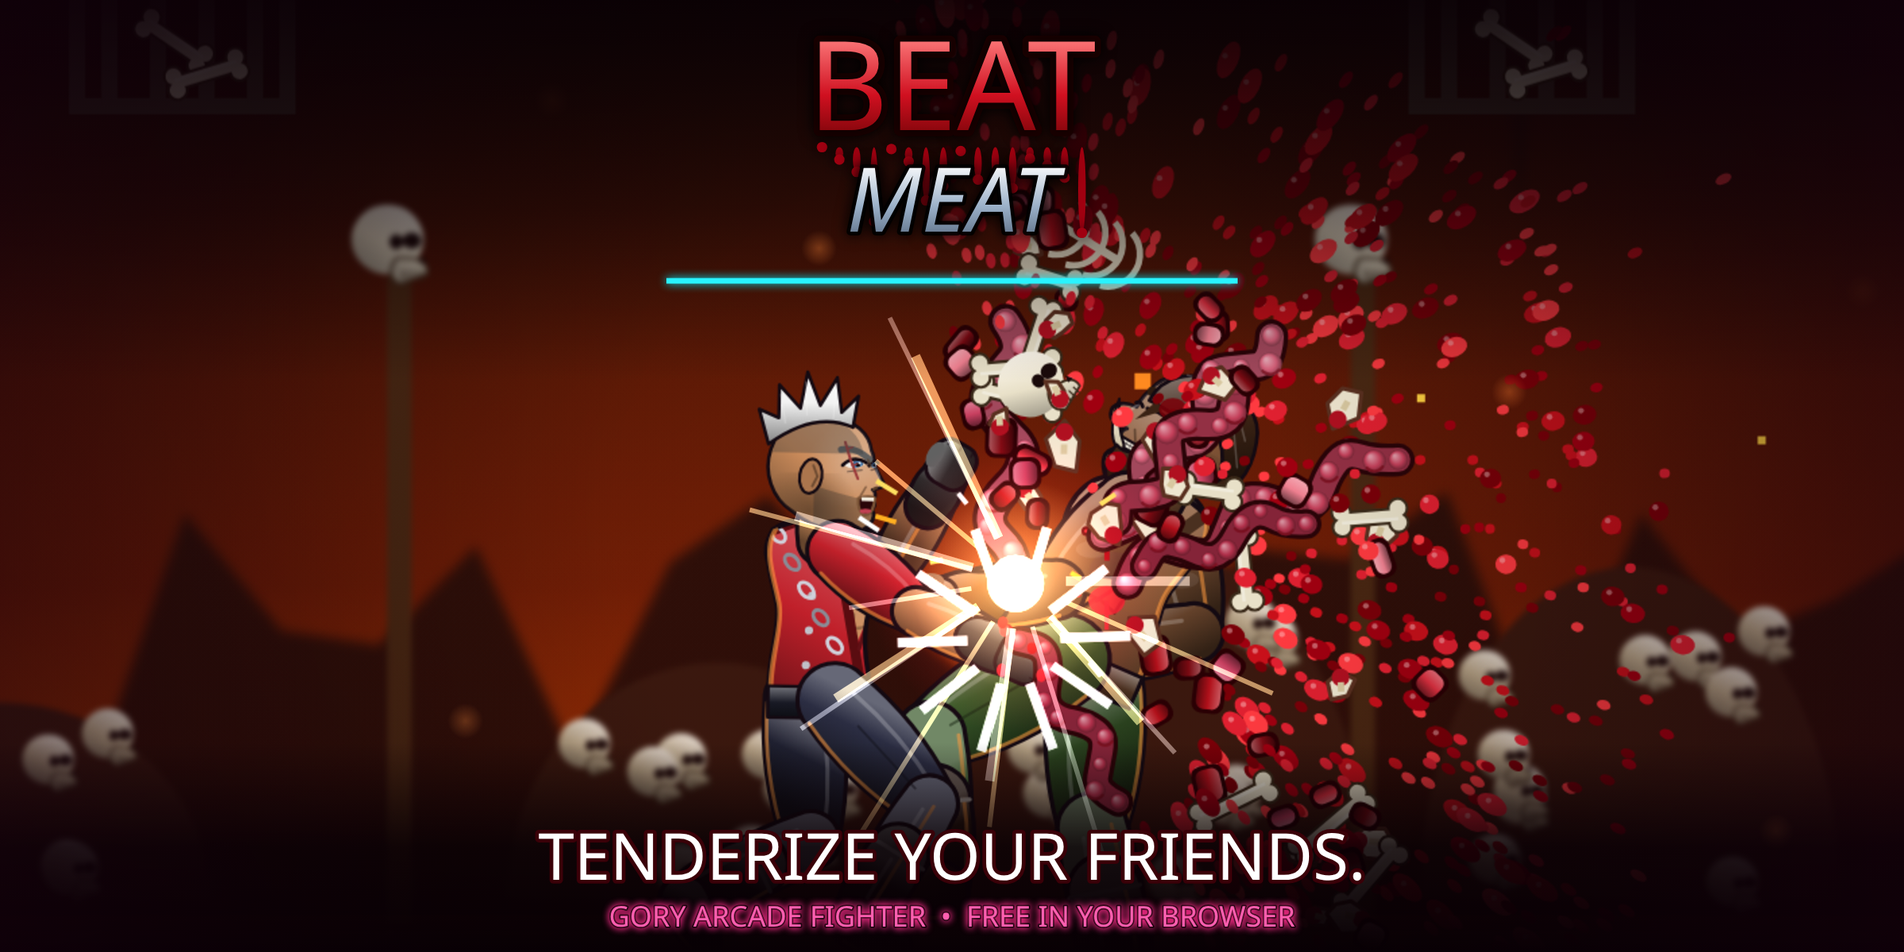
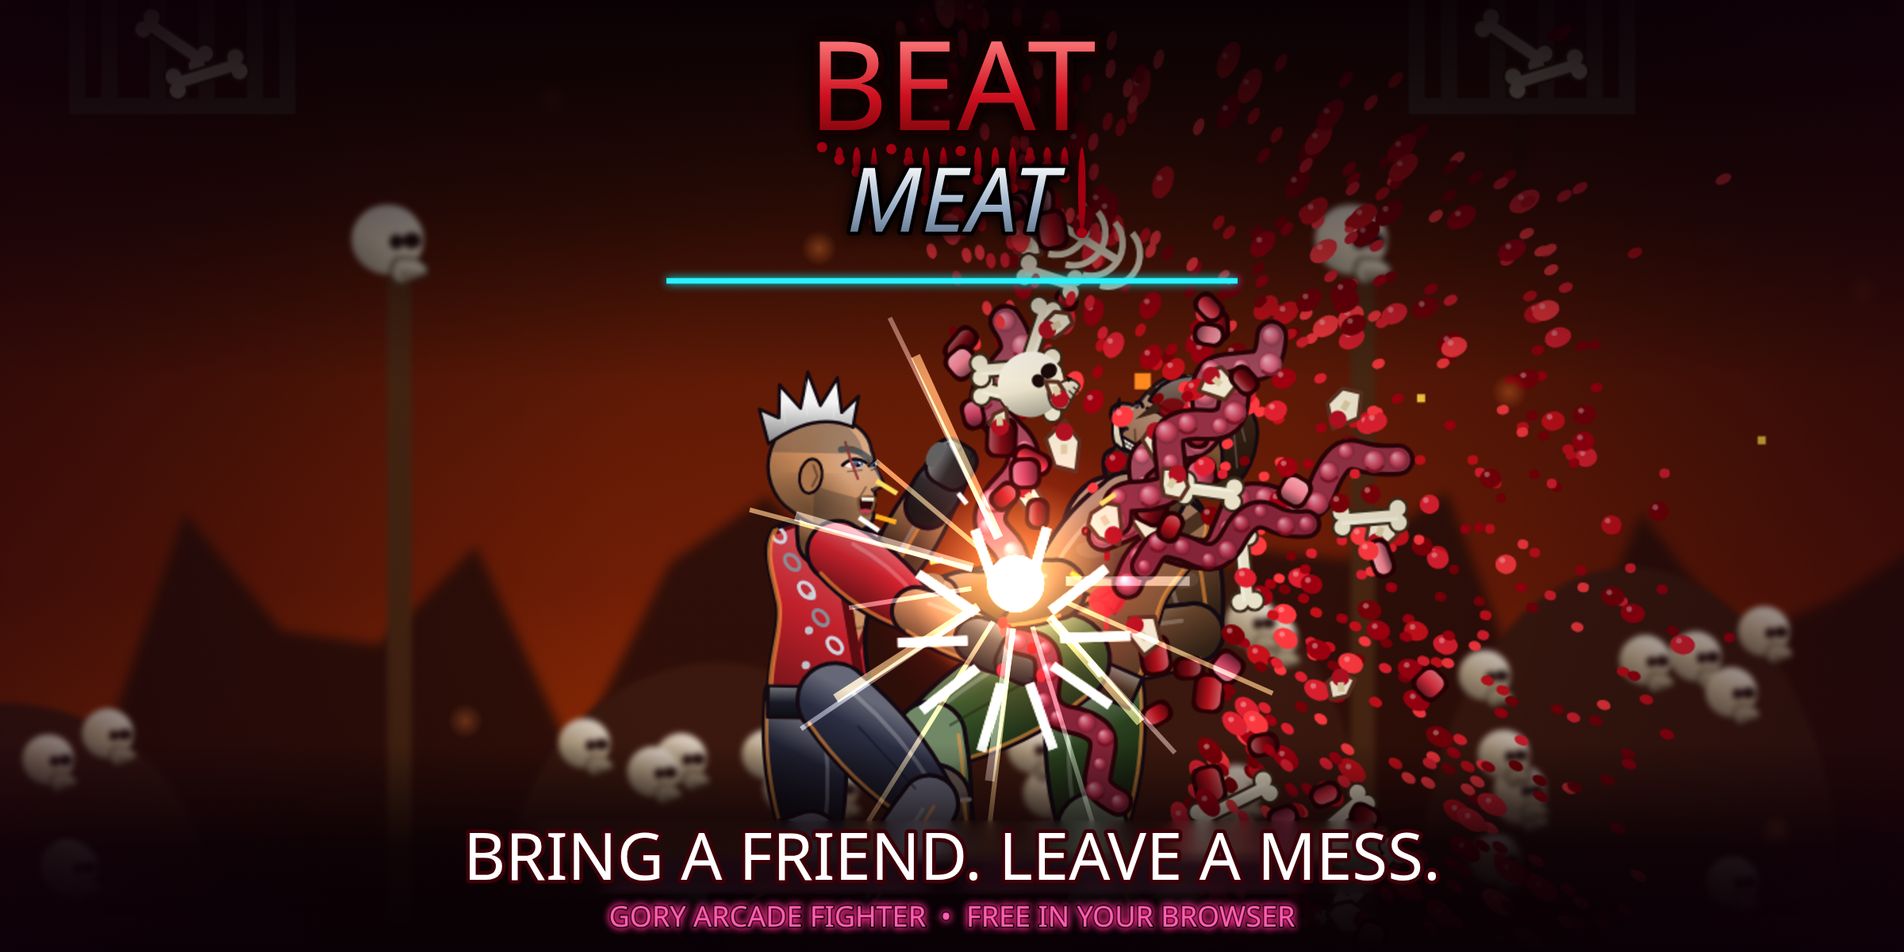
Add files via upload

Changed region(s): [[0.2188, 0.8633, 0.75, 0.925]]

diff --git a/sw.js b/sw.js
@@ -1,4 +1,4 @@
-const C='beat-meat-v14.0.2';const FILES=["./","assets/voice/beat_meat.mp3","assets/voice/beat_meat.ogg","assets/voice/extra_life.mp3","assets/voice/extra_life.ogg","assets/voice/here_comes_a_new_challenger.mp3","assets/voice/here_comes_a_new_challenger.ogg","assets/voice/new_challenger.mp3","assets/voice/new_challenger.ogg","assets/voice/time_up.mp3","assets/voice/time_up.ogg","js/v13-parity.js","js/v13-net-core.js","js/peerjs.min.js","js/v13-net.js","js/v14.js","js/v14-ui.js","js/v14-remap.js","js/v14-opts.js","js/v14-net2.js","js/v14-haz.js","index.html","js/v9-gore.js","js/v9-killcam.js","js/v11-pose.js","js/v10-pose.js","js/v10-fix.js","js/v11-bossfin.js","js/v12-vs.js","js/v12-brawl.js","js/v12-cam.js","js/v12-cpu.js","js/v12-train.js","js/v12-tut.js","js/v12-fx.js","js/v12-1-fx.js","js/v12-2-fix.js","js/v12-2-fatal.js","js/v12-2-ann.js","js/v12-2-story.js","js/v12-2-motions.js","js/v12-2-classic.js","js/v9-train.js","js/v9-moves.js","js/v9-input.js","manifest.webmanifest","assets/voice/annihilation.mp3","assets/voice/annihilation.ogg","assets/voice/backup.mp3","assets/voice/backup.ogg","assets/voice/boss_down.mp3","assets/voice/boss_down.ogg","assets/voice/brick.mp3","assets/voice/brick.ogg","assets/voice/clear.mp3","assets/voice/clear.ogg","assets/voice/combo_breaker.mp3","assets/voice/combo_breaker.ogg","assets/voice/continue.mp3","assets/voice/continue.ogg","assets/voice/crispy.mp3","assets/voice/crispy.ogg","assets/voice/dane.mp3","assets/voice/dane.ogg","assets/voice/destroyed.mp3","assets/voice/destroyed.ogg","assets/voice/dismemberment.mp3","assets/voice/dismemberment.ogg","assets/voice/down.mp3","assets/voice/down.ogg","assets/voice/dr_hex.mp3","assets/voice/dr_hex.ogg","assets/voice/dr_hex_wins.mp3","assets/voice/dr_hex_wins.ogg","assets/voice/draw.mp3","assets/voice/draw.ogg","assets/voice/excellent.mp3","assets/voice/excellent.ogg","assets/voice/execution.mp3","assets/voice/execution.ogg","assets/voice/fatality.mp3","assets/voice/fatality.ogg","assets/voice/fight.mp3","assets/voice/fight.ogg","assets/voice/final_round.mp3","assets/voice/final_round.ogg","assets/voice/finish_them.mp3","assets/voice/finish_them.ogg","assets/voice/flawless_victory.mp3","assets/voice/flawless_victory.ogg","assets/voice/game_over.mp3","assets/voice/game_over.ogg","assets/voice/glitch.mp3","assets/voice/glitch.ogg","assets/voice/glitch_wins.mp3","assets/voice/glitch_wins.ogg","assets/voice/goliath_nine.mp3","assets/voice/goliath_nine.ogg","assets/voice/goliath_nine_wins.mp3","assets/voice/goliath_nine_wins.ogg","assets/voice/good.mp3","assets/voice/good.ogg","assets/voice/jax.mp3","assets/voice/jax.ogg","assets/voice/k_o.mp3","assets/voice/k_o.ogg","assets/voice/kenji.mp3","assets/voice/kenji.ogg","assets/voice/kira_neon.mp3","assets/voice/kira_neon.ogg","assets/voice/kira_neon_wins.mp3","assets/voice/kira_neon_wins.ogg","assets/voice/level_clear.mp3","assets/voice/level_clear.ogg","assets/voice/magma_mae.mp3","assets/voice/magma_mae.ogg","assets/voice/magma_mae_wins.mp3","assets/voice/magma_mae_wins.ogg","assets/voice/mr_graves.mp3","assets/voice/mr_graves.ogg","assets/voice/mr_graves_wins.mp3","assets/voice/mr_graves_wins.ogg","assets/voice/okafor.mp3","assets/voice/okafor.ogg","assets/voice/okafor_wins.mp3","assets/voice/okafor_wins.ogg","assets/voice/perfect.mp3","assets/voice/perfect.ogg","assets/voice/player_two.mp3","assets/voice/player_two.ogg","assets/voice/ray.mp3","assets/voice/ray.ogg","assets/voice/razor_vance.mp3","assets/voice/razor_vance.ogg","assets/voice/razor_vance_wins.mp3","assets/voice/razor_vance_wins.ogg","assets/voice/rena.mp3","assets/voice/rena.ogg","assets/voice/replay.mp3","assets/voice/replay.ogg","assets/voice/round_five.mp3","assets/voice/round_five.ogg","assets/voice/round_four.mp3","assets/voice/round_four.ogg","assets/voice/round_one.mp3","assets/voice/round_one.ogg","assets/voice/round_three.mp3","assets/voice/round_three.ogg","assets/voice/round_two.mp3","assets/voice/round_two.ogg","assets/voice/sol_reyes.mp3","assets/voice/sol_reyes.ogg","assets/voice/sol_reyes_wins.mp3","assets/voice/sol_reyes_wins.ogg","assets/voice/stage_clear.mp3","assets/voice/stage_clear.ogg","assets/voice/stage_kill.mp3","assets/voice/stage_kill.ogg","assets/voice/super.mp3","assets/voice/super.ogg","assets/voice/the_warden.mp3","assets/voice/the_warden.ogg","assets/voice/the_warden_wins.mp3","assets/voice/the_warden_wins.ogg","assets/voice/time.mp3","assets/voice/time.ogg","assets/voice/trial_clear.mp3","assets/voice/trial_clear.ogg","assets/voice/tusk.mp3","assets/voice/tusk.ogg","assets/voice/tusk_wins.mp3","assets/voice/tusk_wins.ogg","assets/voice/warning.mp3","assets/voice/warning.ogg","css/style.css","assets/icon.svg","favicon.ico","assets/favicon-32.png","assets/apple-touch-icon.png","assets/maskable.svg","assets/maskable-192.png","assets/maskable-512.png","assets/og-image.png","assets/og-twitter.png","assets/icon-48.png","assets/icon-72.png","assets/icon-96.png","assets/icon-128.png","assets/icon-144.png","assets/icon-152.png","assets/icon-192.png","assets/icon-256.png","assets/icon-384.png","assets/icon-512.png","js/v8-announce.js","js/v8-replay.js","js/v8-touch.js","js/v8-portrait.js","js/v8-chars.js","js/v8-story.js","js/art.js","js/campaign.js","js/core.js","js/data.js","js/extras.js","js/feel.js","js/fight.js","js/input.js","js/main.js","js/moves.js","js/stages.js","js/story.js","js/v5.js","js/v6.js","js/v7-control.js","js/v7-moves.js","js/v7-story.js","js/v7-ui.js"];
+const C='beat-meat-v14.0.3';const FILES=["./","assets/voice/beat_meat.mp3","assets/voice/beat_meat.ogg","assets/voice/extra_life.mp3","assets/voice/extra_life.ogg","assets/voice/here_comes_a_new_challenger.mp3","assets/voice/here_comes_a_new_challenger.ogg","assets/voice/new_challenger.mp3","assets/voice/new_challenger.ogg","assets/voice/time_up.mp3","assets/voice/time_up.ogg","js/v13-parity.js","js/v13-net-core.js","js/peerjs.min.js","js/v13-net.js","js/v14.js","js/v14-ui.js","js/v14-remap.js","js/v14-opts.js","js/v14-net2.js","js/v14-haz.js","index.html","js/v9-gore.js","js/v9-killcam.js","js/v11-pose.js","js/v10-pose.js","js/v10-fix.js","js/v11-bossfin.js","js/v12-vs.js","js/v12-brawl.js","js/v12-cam.js","js/v12-cpu.js","js/v12-train.js","js/v12-tut.js","js/v12-fx.js","js/v12-1-fx.js","js/v12-2-fix.js","js/v12-2-fatal.js","js/v12-2-ann.js","js/v12-2-story.js","js/v12-2-motions.js","js/v12-2-classic.js","js/v9-train.js","js/v9-moves.js","js/v9-input.js","manifest.webmanifest","assets/voice/annihilation.mp3","assets/voice/annihilation.ogg","assets/voice/backup.mp3","assets/voice/backup.ogg","assets/voice/boss_down.mp3","assets/voice/boss_down.ogg","assets/voice/brick.mp3","assets/voice/brick.ogg","assets/voice/clear.mp3","assets/voice/clear.ogg","assets/voice/combo_breaker.mp3","assets/voice/combo_breaker.ogg","assets/voice/continue.mp3","assets/voice/continue.ogg","assets/voice/crispy.mp3","assets/voice/crispy.ogg","assets/voice/dane.mp3","assets/voice/dane.ogg","assets/voice/destroyed.mp3","assets/voice/destroyed.ogg","assets/voice/dismemberment.mp3","assets/voice/dismemberment.ogg","assets/voice/down.mp3","assets/voice/down.ogg","assets/voice/dr_hex.mp3","assets/voice/dr_hex.ogg","assets/voice/dr_hex_wins.mp3","assets/voice/dr_hex_wins.ogg","assets/voice/draw.mp3","assets/voice/draw.ogg","assets/voice/excellent.mp3","assets/voice/excellent.ogg","assets/voice/execution.mp3","assets/voice/execution.ogg","assets/voice/fatality.mp3","assets/voice/fatality.ogg","assets/voice/fight.mp3","assets/voice/fight.ogg","assets/voice/final_round.mp3","assets/voice/final_round.ogg","assets/voice/finish_them.mp3","assets/voice/finish_them.ogg","assets/voice/flawless_victory.mp3","assets/voice/flawless_victory.ogg","assets/voice/game_over.mp3","assets/voice/game_over.ogg","assets/voice/glitch.mp3","assets/voice/glitch.ogg","assets/voice/glitch_wins.mp3","assets/voice/glitch_wins.ogg","assets/voice/goliath_nine.mp3","assets/voice/goliath_nine.ogg","assets/voice/goliath_nine_wins.mp3","assets/voice/goliath_nine_wins.ogg","assets/voice/good.mp3","assets/voice/good.ogg","assets/voice/jax.mp3","assets/voice/jax.ogg","assets/voice/k_o.mp3","assets/voice/k_o.ogg","assets/voice/kenji.mp3","assets/voice/kenji.ogg","assets/voice/kira_neon.mp3","assets/voice/kira_neon.ogg","assets/voice/kira_neon_wins.mp3","assets/voice/kira_neon_wins.ogg","assets/voice/level_clear.mp3","assets/voice/level_clear.ogg","assets/voice/magma_mae.mp3","assets/voice/magma_mae.ogg","assets/voice/magma_mae_wins.mp3","assets/voice/magma_mae_wins.ogg","assets/voice/mr_graves.mp3","assets/voice/mr_graves.ogg","assets/voice/mr_graves_wins.mp3","assets/voice/mr_graves_wins.ogg","assets/voice/okafor.mp3","assets/voice/okafor.ogg","assets/voice/okafor_wins.mp3","assets/voice/okafor_wins.ogg","assets/voice/perfect.mp3","assets/voice/perfect.ogg","assets/voice/player_two.mp3","assets/voice/player_two.ogg","assets/voice/ray.mp3","assets/voice/ray.ogg","assets/voice/razor_vance.mp3","assets/voice/razor_vance.ogg","assets/voice/razor_vance_wins.mp3","assets/voice/razor_vance_wins.ogg","assets/voice/rena.mp3","assets/voice/rena.ogg","assets/voice/replay.mp3","assets/voice/replay.ogg","assets/voice/round_five.mp3","assets/voice/round_five.ogg","assets/voice/round_four.mp3","assets/voice/round_four.ogg","assets/voice/round_one.mp3","assets/voice/round_one.ogg","assets/voice/round_three.mp3","assets/voice/round_three.ogg","assets/voice/round_two.mp3","assets/voice/round_two.ogg","assets/voice/sol_reyes.mp3","assets/voice/sol_reyes.ogg","assets/voice/sol_reyes_wins.mp3","assets/voice/sol_reyes_wins.ogg","assets/voice/stage_clear.mp3","assets/voice/stage_clear.ogg","assets/voice/stage_kill.mp3","assets/voice/stage_kill.ogg","assets/voice/super.mp3","assets/voice/super.ogg","assets/voice/the_warden.mp3","assets/voice/the_warden.ogg","assets/voice/the_warden_wins.mp3","assets/voice/the_warden_wins.ogg","assets/voice/time.mp3","assets/voice/time.ogg","assets/voice/trial_clear.mp3","assets/voice/trial_clear.ogg","assets/voice/tusk.mp3","assets/voice/tusk.ogg","assets/voice/tusk_wins.mp3","assets/voice/tusk_wins.ogg","assets/voice/warning.mp3","assets/voice/warning.ogg","css/style.css","assets/icon.svg","favicon.ico","assets/favicon-32.png","assets/apple-touch-icon.png","assets/maskable.svg","assets/maskable-192.png","assets/maskable-512.png","assets/og-image.png","assets/og-twitter.png","assets/icon-48.png","assets/icon-72.png","assets/icon-96.png","assets/icon-128.png","assets/icon-144.png","assets/icon-152.png","assets/icon-192.png","assets/icon-256.png","assets/icon-384.png","assets/icon-512.png","js/v8-announce.js","js/v8-replay.js","js/v8-touch.js","js/v8-portrait.js","js/v8-chars.js","js/v8-story.js","js/art.js","js/campaign.js","js/core.js","js/data.js","js/extras.js","js/feel.js","js/fight.js","js/input.js","js/main.js","js/moves.js","js/stages.js","js/story.js","js/v5.js","js/v6.js","js/v7-control.js","js/v7-moves.js","js/v7-story.js","js/v7-ui.js"];
 self.addEventListener('install',e=>{e.waitUntil(caches.open(C).then(c=>c.addAll(FILES)).then(()=>self.skipWaiting()))});
 self.addEventListener('activate',e=>{e.waitUntil(caches.keys().then(k=>Promise.all(k.filter(x=>x!==C).map(x=>caches.delete(x)))).then(()=>self.clients.claim()))});
 self.addEventListener('fetch',e=>{if(e.request.method!=='GET')return;e.respondWith(caches.match(e.request).then(r=>r||fetch(e.request)))});

diff --git a/js/extras.js b/js/extras.js
@@ -51,7 +51,7 @@ SCN.title={enter(s){Music.play('title');IDLE=0;s.ember=[]},update(s){const any=B
   X.save();X.translate(W*.17-(1-sl)*80,H+6);X.scale(1.8,1.8);drawFighterV(X,a,pa,{expr:'angry',rim:'#ff4060',t});X.restore();X.save();X.translate(W*.83+(1-sl)*80,H+6);X.scale(-1.8,1.8);drawFighterV(X,b,pa,{expr:'grin',rim:'#40c0ff',t});X.restore();
   X.fillStyle=lgr(X,0,H*.5,0,H,['rgba(0,0,0,0)','rgba(0,0,0,.75)']);X.fillRect(0,H*.5,W,H*.5);
   const k=Math.min(1,t/40);txt('MRCRAZY PRESENTS',W/2,Math.max(12,SAFE.t+10),{sz:6,c:'#f99',lw:1.2});X.save();X.translate(W/2,56);X.scale(.6+.4*k+Math.sin(t*.05)*.015,.6+.4*k);X.translate(-W/2,-56);bloodTitle(56,40,t);X.restore();
-  if(t>30){X.globalAlpha=Math.min(1,(t-30)/20);txt('TENDERIZE YOUR FRIENDS',W/2,112,{sz:9,big:1,c:'#ffd23a',lw:1.6,it:1});X.globalAlpha=1}
+  if(t>30){X.globalAlpha=Math.min(1,(t-30)/20);txt('BRING A FRIEND. LEAVE A MESS.',W/2,112,{sz:9,big:1,c:'#ffd23a',lw:1.6,it:1});X.globalAlpha=1}
   if(t%60<42)txt(TCH.isTouch?'TAP TO START':'PRESS START  ['+glyph(0,'st')+']',W/2,150,{sz:11,big:1,c:'#fff',lw:2});
   txt(GAME_VER+'  \u00a9 2026 MRCRAZY  \u2022  ALL-ORIGINAL CHARACTERS',W/2,H-SAFE.b-6,{sz:4.5,c:'#888',lw:1,nosc:1});hitR(0,0,W,H,()=>{SFX.sel();go('menu')})}};
 function startAttract(){IDLE=0;if(R()<.5){const a=pick(REGULAR),b=pick(REGULAR.filter(c=>c!==a));newFight(a,b,{mode:'cpu',stage:ri(0,5),cpu1:1,cpu2:1,dif1:3,dif2:3,onEnd:()=>go('title')});F.attract=1;go('fight')}
@@ -186,7 +186,7 @@ const _fd2=SCN.fight.draw;SCN.fight.draw=function(s){_fd2(s);if(!F||!F.tut)retur
  txt('TUTORIAL '+(TUTS.i+1)+'/'+TUT.length+': '+st[0],W/2,48,{sz:7,big:1,c:'#ffd23a',lw:1.2});let d=st[1];if(st[0]==='TARGET COMBO'){const tc=F.p[0].ch.tc&&F.p[0].ch.tc[0];d+=tc?tc.map(b=>BTNN[b]).join(' > '):''}txt(d,W/2,61,{sz:5.4,c:'#fff',lw:1})};
 // ---------- credits ----------
 const _cr=SCN.credits.draw;SCN.credits.draw=function(s){if(s.unl)return _cr(s);bgPattern(s.t,'#100010','#200020');backBtn(()=>{SFX.back();if(s.back){SC=s.back;HITS=[]}else go('menu')});
- const L=['BEAT MEAT','TENDERIZE YOUR FRIENDS  '+GAME_VER,'','CREATED BY MRCRAZY','Game idea, design & direction','','A MRCRAZY PRODUCTION','','FIGHTERS','Razor \u2022 Kira \u2022 Okafor \u2022 Mr. Graves \u2022 Mae \u2022 Hex','Tusk \u2022 Sol Reyes \u2022 Glitch \u2022 Goliath-9 \u2022 The Warden','','STORY HEROES','Jax Rourke \u2022 Rena Vale \u2022 Brick Brannigan \u2022 Kenji Arata','Ray Calder \u2022 Dane Calder','','STORY MODE','TAKE BACK THE CITY','Neon Row \u2022 The Underline \u2022 Pier 13 \u2022 Smeltworks','Gilded Ace Casino \u2022 Precinct Zero \u2022 Skyline Run \u2022 Malgrave Penthouse','','BLOOD VENDETTA','Burning Garage \u2022 Helipad 9 \u2022 Grinder Works','Night Freight \u2022 Kane Mansion \u2022 The Iron Chapel','','MODES','Arcade \u2022 Versus \u2022 Survival \u2022 Story \u2022 Practice Yard','Training & Combo Trials \u2022 CPU Battle','','ENGINE','HTML5 Canvas \u2022 Web Audio \u2022 Gamepad API \u2022 Vibration API','','All characters, names and moves are original.','No real blood was spilled.','','THANKS FOR PLAYING','\u2014 MrCrazy'];
+ const L=['BEAT MEAT','BRING A FRIEND. LEAVE A MESS.  '+GAME_VER,'','CREATED BY MRCRAZY','Game idea, design & direction','','A MRCRAZY PRODUCTION','','FIGHTERS','Razor \u2022 Kira \u2022 Okafor \u2022 Mr. Graves \u2022 Mae \u2022 Hex','Tusk \u2022 Sol Reyes \u2022 Glitch \u2022 Goliath-9 \u2022 The Warden','','STORY HEROES','Jax Rourke \u2022 Rena Vale \u2022 Brick Brannigan \u2022 Kenji Arata','Ray Calder \u2022 Dane Calder','','STORY MODE','TAKE BACK THE CITY','Neon Row \u2022 The Underline \u2022 Pier 13 \u2022 Smeltworks','Gilded Ace Casino \u2022 Precinct Zero \u2022 Skyline Run \u2022 Malgrave Penthouse','','BLOOD VENDETTA','Burning Garage \u2022 Helipad 9 \u2022 Grinder Works','Night Freight \u2022 Kane Mansion \u2022 The Iron Chapel','','MODES','Arcade \u2022 Versus \u2022 Survival \u2022 Story \u2022 Practice Yard','Training & Combo Trials \u2022 CPU Battle','','ENGINE','HTML5 Canvas \u2022 Web Audio \u2022 Gamepad API \u2022 Vibration API','','All characters, names and moves are original.','No real blood was spilled.','','THANKS FOR PLAYING','\u2014 MrCrazy'];
  const tot=L.length*12+H,y0=H-((s.t*.35)%tot);L.forEach((l,i)=>{const big=l===l.toUpperCase();txt(l,W/2,y0+i*12,{sz:i===0?14:i===3?11:big?7:6,big:big?1:0,c:i<2?'#ffd23a':i===3?'#fff':big?'#f88':'#ddd',lw:1})});};
 // ---------- how to play: glyph-aware ----------
 const _ctl=SCN.controls&&SCN.controls.draw;

diff --git a/js/main.js b/js/main.js
@@ -129,7 +129,7 @@ SCN.title={enter(){Music.play('title')},update(s){if(anyP('st')||anyP('lp')){SFX
  const a=ROSTER[Math.floor(s.t/150)%ROSTER.length],b=ROSTER[(Math.floor(s.t/150)+5)%ROSTER.length],pa=POSE[IDLEP(s.t)];
  X.save();X.translate(W*.18,H+6);X.scale(1.75,1.75);drawFighterV(X,a,pa,{expr:'angry',rim:'#ff4060',t:s.t});X.restore();X.save();X.translate(W*.82,H+6);X.scale(-1.75,1.75);drawFighterV(X,b,pa,{expr:'grin',rim:'#40c0ff',t:s.t});X.restore();
  X.fillStyle=lgr(X,0,H*.5,0,H,['rgba(0,0,0,0)','rgba(0,0,0,.7)']);X.fillRect(0,H*.5,W,H*.5);
- txt('MRCRAZY PRESENTS',W/2,Math.max(12,SAFE.t+10),{sz:6,c:'#f99',lw:1.2});bloodTitle(56,40,s.t);txt('TENDERIZE YOUR FRIENDS',W/2,112,{sz:9,big:1,c:'#ffd23a',lw:1.6,it:1});
+ txt('MRCRAZY PRESENTS',W/2,Math.max(12,SAFE.t+10),{sz:6,c:'#f99',lw:1.2});bloodTitle(56,40,s.t);txt('BRING A FRIEND. LEAVE A MESS.',W/2,112,{sz:9,big:1,c:'#ffd23a',lw:1.6,it:1});
  if(s.t%60<42)txt(TCH.isTouch?'TAP TO START':'PRESS START',W/2,150,{sz:11,big:1,c:'#fff',lw:2});
  txt(GAME_VER+'  \u00a9 2026 MRCRAZY  \u2022  ALL-ORIGINAL CHARACTERS',W/2,H-SAFE.b-6,{sz:4.5,c:'#888',lw:1});hitR(0,0,W,H,()=>{SFX.sel();go('menu')})}};
 // --- main menu ---
@@ -273,7 +273,7 @@ SCN.credits={update(s){if(anyP('st')||anyP('se')||anyP('lp')||anyP('lk')){SFX.ba
  if(s.unl){txt('UNLOCKABLES',W/2,20,{sz:11,big:1,c:'#ffd23a',lw:1.4});const total=Object.values(SAVE.stats.clears).reduce((a,b)=>a+b,0);
   [['GOLIATH-9 & THE WARDEN','Clear Arcade once',SAVE.unlock.bosses],['ALT COSTUMES','Clear Arcade twice or Survival 5 wins  ('+total+' clears, best '+SAVE.stats.survBest+')',SAVE.unlock.alts],['BIG HEAD MODE','25 executions or Survival 10 wins  ('+SAVE.stats.execs+' execs)',SAVE.unlock.bighead]].forEach((u,i)=>{const y=48+i*30;X.fillStyle='rgba(255,255,255,.06)';rrect(X,W/2-120,y-10,240,24,4);X.fill();
    txt(u[2]?'\u2713':'\ud83d\udd12',W/2-108,y+2,{sz:10,c:u[2]?'#9f9':'#888',lw:1});txt(u[0],W/2-96,y-2,{sz:7,big:1,al:'left',c:u[2]?'#fff':'#999',lw:1});txt(u[1],W/2-96,y+7,{sz:4.6,al:'left',c:'#bbb',lw:1})});return}
- const L=['BEAT MEAT','TENDERIZE YOUR FRIENDS  '+GAME_VER,'','A MRCRAZY PRODUCTION','','DESIGN, CODE, ART, MUSIC','MrCrazy','','FIGHTERS','Razor \u2022 Kira \u2022 Tusk \u2022 Sol Reyes \u2022 and friends','Goliath-9 \u2022 The Warden','','ENGINE','HTML5 Canvas \u2022 Web Audio \u2022 Gamepad API \u2022 Vibration API','','All characters, names and moves are original.','No real blood was spilled.','','THANKS FOR PLAYING'];
+ const L=['BEAT MEAT','BRING A FRIEND. LEAVE A MESS.  '+GAME_VER,'','A MRCRAZY PRODUCTION','','DESIGN, CODE, ART, MUSIC','MrCrazy','','FIGHTERS','Razor \u2022 Kira \u2022 Tusk \u2022 Sol Reyes \u2022 and friends','Goliath-9 \u2022 The Warden','','ENGINE','HTML5 Canvas \u2022 Web Audio \u2022 Gamepad API \u2022 Vibration API','','All characters, names and moves are original.','No real blood was spilled.','','THANKS FOR PLAYING'];
  const y0=H-(s.t*.35)%(L.length*12+H);L.forEach((l,i)=>txt(l,W/2,y0+i*12,{sz:i===0?14:l===l.toUpperCase()?7:6,big:l===l.toUpperCase()?1:0,c:i<2?'#ffd23a':l===l.toUpperCase()?'#f88':'#ddd',lw:1}));}};
 // ---- modes ----
 function checkUnlocks(){const U=SAVE.unlock,st=SAVE.stats,total=Object.values(st.clears).reduce((a,b)=>a+b,0),n=[];

diff --git a/index.html b/index.html
@@ -1,7 +1,7 @@
 <!DOCTYPE html><html lang="en"><head><meta charset="utf-8">
 <meta name="viewport" content="width=device-width,initial-scale=1,maximum-scale=1,user-scalable=no,viewport-fit=cover">
 <meta name="theme-color" content="#14060a"><meta name="apple-mobile-web-app-capable" content="yes"><meta name="mobile-web-app-capable" content="yes"><meta name="apple-mobile-web-app-status-bar-style" content="black-translucent">
-<title>Beat Meat: Tenderize Your Friends (v14.0.2)</title><meta name="version" content="14.0.2">
+<title>Beat Meat: Bring a Friend. Leave a Mess. (v14.0.3)</title><meta name="version" content="14.0.3">
 <link rel="manifest" href="manifest.webmanifest"><link rel="icon" href="favicon.ico" sizes="16x16 32x32 48x48"><link rel="icon" type="image/png" sizes="32x32" href="assets/favicon-32.png"><link rel="icon" type="image/svg+xml" href="assets/icon.svg"><link rel="apple-touch-icon" sizes="180x180" href="assets/apple-touch-icon.png">
 <!-- Link preview (chat / social). SITE URL: change every https://0mrcrazy0.github.io/beatmeat/ below if the game moves. -->
 <meta name="description" content="Gory arcade fighting and co-op street brawling. Pull off hidden FATALITIES, beat the story with a friend, and play free in your browser or on your phone.">
@@ -9,7 +9,7 @@
 <link rel="canonical" href="https://0mrcrazy0.github.io/beatmeat/">
 <meta property="og:type" content="website">
 <meta property="og:site_name" content="Beat Meat">
-<meta property="og:title" content="Beat Meat: Tenderize Your Friends">
+<meta property="og:title" content="Beat Meat: Bring a Friend. Leave a Mess.">
 <meta property="og:description" content="Gory arcade fighting and co-op street brawling. Pull off hidden FATALITIES, beat the story with a friend, and play free in your browser or on your phone.">
 <meta property="og:url" content="https://0mrcrazy0.github.io/beatmeat/">
 <meta property="og:image" content="https://0mrcrazy0.github.io/beatmeat/assets/og-image.png">
@@ -19,7 +19,7 @@
 <meta property="og:image:height" content="630">
 <meta property="og:image:alt" content="BEAT MEAT logo over two bloodied fighters facing off in a skull-filled arena">
 <meta name="twitter:card" content="summary_large_image">
-<meta name="twitter:title" content="Beat Meat: Tenderize Your Friends">
+<meta name="twitter:title" content="Beat Meat: Bring a Friend. Leave a Mess.">
 <meta name="twitter:description" content="Gory arcade fighting and co-op street brawling. Pull off hidden FATALITIES, beat the story with a friend, and play free in your browser or on your phone.">
 <meta name="twitter:image" content="https://0mrcrazy0.github.io/beatmeat/assets/og-twitter.png">
 <meta name="twitter:image:alt" content="BEAT MEAT logo over two bloodied fighters facing off in a skull-filled arena">

diff --git a/js/core.js b/js/core.js
@@ -9,7 +9,7 @@ function srng(s){return()=>{s|=0;s=s+0x6D2B79F5|0;let t=Math.imul(s^s>>>15,1|s);
 function shuffle(a){for(let i=a.length-1;i>0;i--){const j=Math.floor(R()*(i+1));[a[i],a[j]]=[a[j],a[i]]}return a}
 const QS=new URLSearchParams(location.search);
 // ---- save ----
-const GAME_VER='v14.0.2';const SAVEK='beatMeat13';
+const GAME_VER='v14.0.3';const SAVEK='beatMeat13';
 // carry saves over from the old name
 try{if(!localStorage.getItem(SAVEK)){const o=localStorage.getItem('splatterCircuit3');if(o)localStorage.setItem(SAVEK,o)}}catch(e){}
 const DEF={opt:{diff:2,gore:1,music:1,sfx:1,mvol:.7,svol:.85,time:60,rounds:3,quality:(matchMedia('(pointer:coarse)').matches?1:2),fps:0,haptic:1,hint:.8,touch:'auto',tlayout:'classic',top:.5,tsize:1,bighead:0,shake:1,vvol:.8,avol:.9,voice:1,announcer:1,fpscap:60,cb:0,simple:0,tsz:1,dz:.25,scrSplat:1,story:'normal',fxq:3},keymap:null,padMaps:[null,null],ach:{},board:[],story:null,seen:{},

diff --git a/README.md b/README.md
@@ -1,4 +1,4 @@
-# BEAT MEAT: Tenderize Your Friends (v14.0.2)
+# BEAT MEAT: Bring a Friend. Leave a Mess. (v14.0.3)
 
 An original, gory 2D fighter and co-op street brawler. Play it free in your browser, on desktop or phone, and install it as an app.
 
